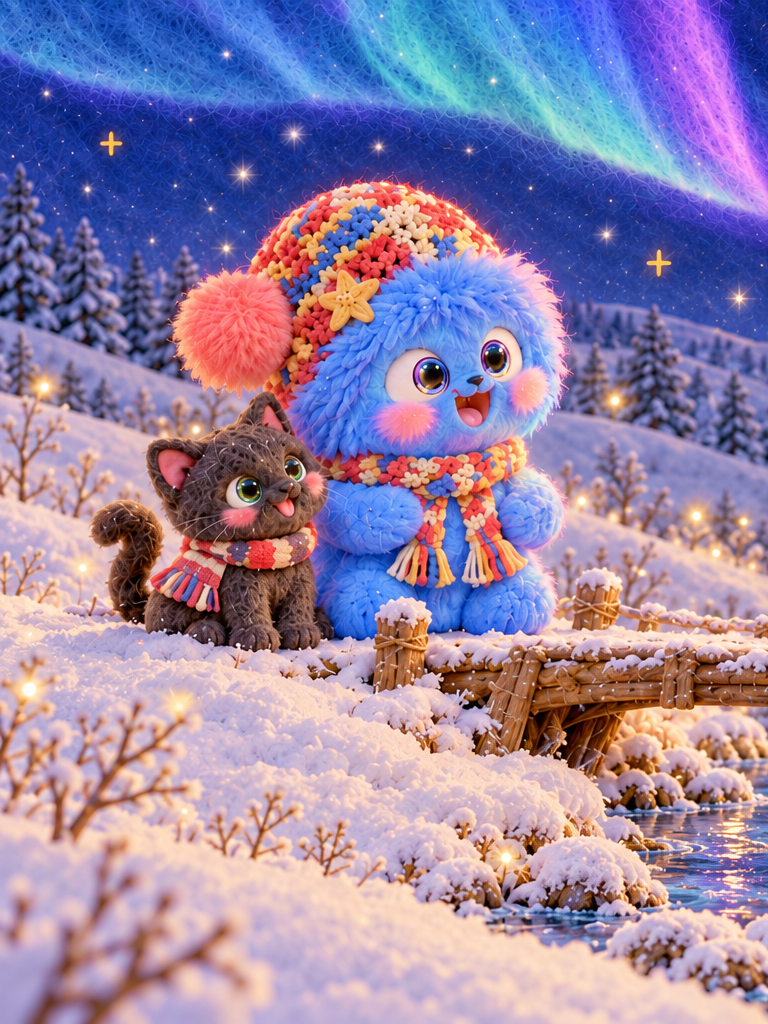
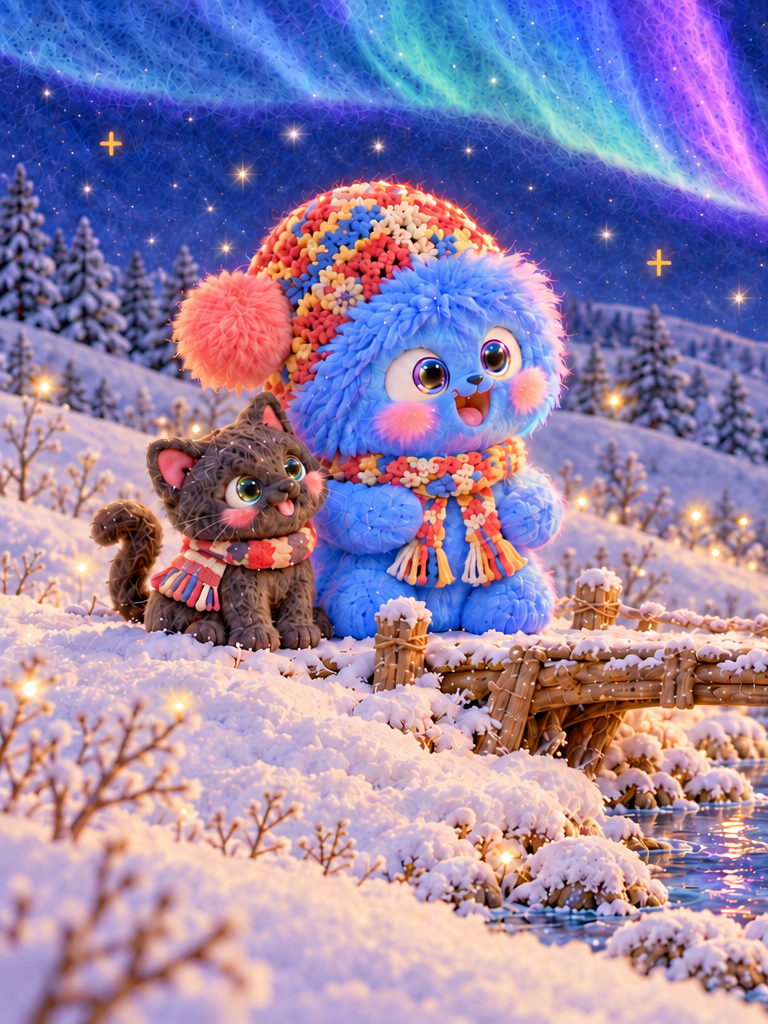
Replace Woodland bridge with approved current Nomie illustration

diff --git a/feltworld/flipbook/v1/doggy/index.html b/feltworld/flipbook/v1/doggy/index.html
@@ -116,7 +116,7 @@ updateZoom();
 const revision='20261005-nomie-search-v4';
 const isCover=i=>scenes[i][0].startsWith('cover-');
 const coverPath=i=>'covers/'+(i===0?'front-cover-v1.png':'back-cover-v1.png')+'?v=arthur-weathered-20261003';
-const path=(i,side)=>`${scenes[i][0]}-part-${side==='left'?1:2}-${side}.png`+(scenes[i][0]==='11-peaceful-tree-home'?'?v=tree-home-v2-20261006':'');
+const path=(i,side)=>`${scenes[i][0]}-part-${side==='left'?1:2}-${side}.png`+(scenes[i][0]==='01-woodland-bridge'?'?v=nomie-bridge-20261007':scenes[i][0]==='11-peaceful-tree-home'?'?v=tree-home-v2-20261006':'');
 const img=(i,side)=>{const e=new Image();e.crossOrigin="anonymous";const key=isCover(i)?coverPath(i):path(i,side);e.src=ready.get(key)?.loaded?ready.get(key).image.src:key;e.alt=isCover(i)?(i===0?'A World of Felt. Vol. I: Doggy! By Arthur Whitcombe.':'Copyright Arthur Whitcombe, 2026.'):(side==='left'?(window.FeltPictureDescriptions[scenes[i][0]]||scenes[i][1]):'');e.draggable=false;return e};
 const storageKey='felt-story-tape-draft-v2';
 let draftEdits={};
@@ -234,7 +234,7 @@ function beginBoundary(direction,target){
  }
  spread.style.opacity='0';book.classList.add('turning','boundary-turn');setProgress(0);return true;
 }
-function render(){warmArt(index);window.dispatchEvent(new CustomEvent("felt-scene",{detail:{index,id:scenes[index][0],count:scenes.length}}));book.classList.toggle('cover-mode',isCover(index));spread.style.transform='';spread.style.opacity='';if(isCover(index)){const cover=document.createElement('div');cover.className='cover '+(index===0?'front':'back');cover.append(img(index,'right'));spread.replaceChildren(cover);}else spread.replaceChildren(page(index,'left'),page(index,'right'));previous.disabled=index===0;next.disabled=index===scenes.length-1;document.querySelector('#first').disabled=index===0;document.querySelector('#last').disabled=index===scenes.length-1;document.querySelector('#position').textContent=`${index+1} / ${scenes.length}`;document.querySelector('#scene').textContent=scenes[index][1];book.setAttribute('aria-label',`Illustrated book, ${scenes[index][1]}, spread ${index+1} of ${scenes.length}`);document.querySelector('#left-download').href=path(index,'left');document.querySelector('#right-download').href=path(index,'right');document.querySelector('#master-download').href=`masters/${scenes[index][0]}-master.png`;document.querySelector('#scene-downloads').hidden=isCover(index);document.querySelector('#text-settings').disabled=isCover(index);}
+function render(){warmArt(index);window.dispatchEvent(new CustomEvent("felt-scene",{detail:{index,id:scenes[index][0],count:scenes.length}}));book.classList.toggle('cover-mode',isCover(index));spread.style.transform='';spread.style.opacity='';if(isCover(index)){const cover=document.createElement('div');cover.className='cover '+(index===0?'front':'back');cover.append(img(index,'right'));spread.replaceChildren(cover);}else spread.replaceChildren(page(index,'left'),page(index,'right'));previous.disabled=index===0;next.disabled=index===scenes.length-1;document.querySelector('#first').disabled=index===0;document.querySelector('#last').disabled=index===scenes.length-1;document.querySelector('#position').textContent=`${index+1} / ${scenes.length}`;document.querySelector('#scene').textContent=scenes[index][1];book.setAttribute('aria-label',`Illustrated book, ${scenes[index][1]}, spread ${index+1} of ${scenes.length}`);document.querySelector('#left-download').href=path(index,'left');document.querySelector('#right-download').href=path(index,'right');document.querySelector('#master-download').href=`masters/${scenes[index][0]}-master.png`+(scenes[index][0]==='01-woodland-bridge'?'?v=nomie-bridge-20261007':'');document.querySelector('#scene-downloads').hidden=isCover(index);document.querySelector('#text-settings').disabled=isCover(index);}
 function begin(direction,target=index+direction,grasp=pointer){
  if(target<0||target>=scenes.length||!canTurn(index)||!canTurn(target))return false;
  if(isCover(index)||isCover(target))return beginBoundary(direction,target);
